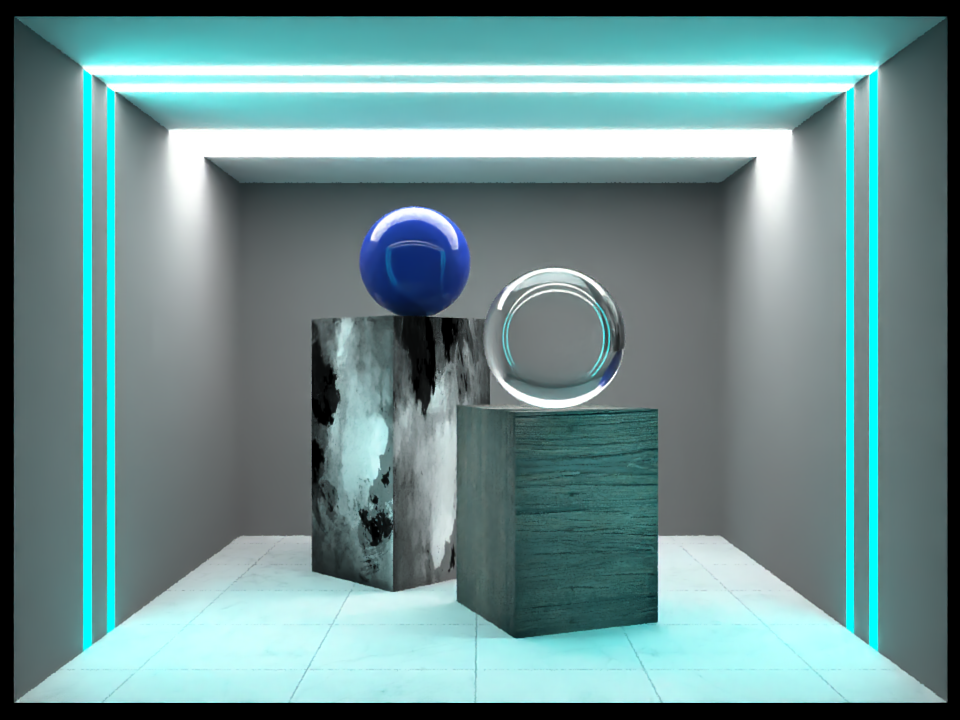
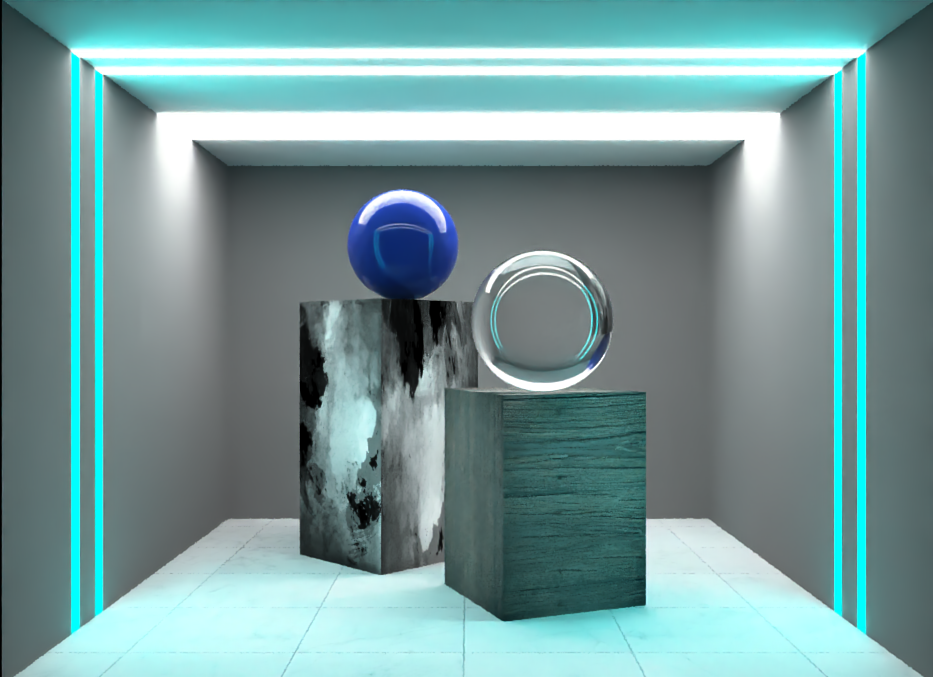
Multithread loop and fix crop image

diff --git a/src/main.cpp b/src/main.cpp
@@ -152,7 +152,7 @@ int main(int argc, char* argv[]){
     auto start = std::chrono::high_resolution_clock::now(); 
     double progress = 0.0f;
 
-    // #pragma omp parallel for
+    #pragma omp parallel for
     for (int i = 0; i < height; i++){
         for (int j = 0; j < width; j++){
             int row = j;
